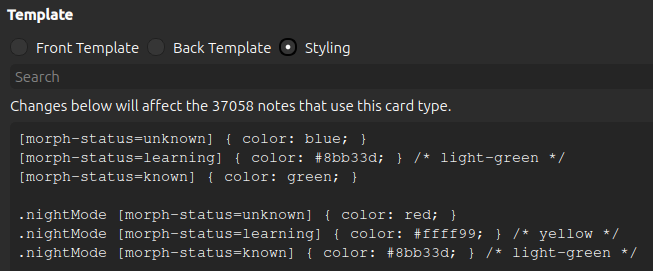
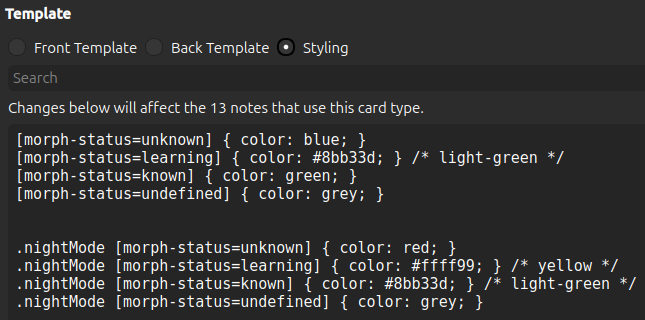
highlighting doc update

diff --git a/docs/src/user_guide/setup/highlighting.md b/docs/src/user_guide/setup/highlighting.md
@@ -73,10 +73,12 @@ dark-mode, then only adding the first line would be enough. You can also change 
 [morph-status=unknown] { color: blue; }
 [morph-status=learning] { color: #8bb33d; } /* light-green */
 [morph-status=known] { color: green; }
+[morph-status=undefined] { color: grey; }
 
 .nightMode [morph-status=unknown] { color: red; } 
 .nightMode [morph-status=learning] { color: #ffff99; } /* yellow */
 .nightMode [morph-status=known] { color: #8bb33d; } /* light-green */
+.nightMode [morph-status=undefined] { color: grey; }
 ```
 
 
@@ -84,41 +86,43 @@ dark-mode, then only adding the first line would be enough. You can also change 
 It’s also possible to use `background-color`:
 
 ``` css
-[morph-status=unknown] { background-color: #f7867e; } /* red */
-[morph-status=learning] { background-color: #ffff99; } /* yellow */
-[morph-status=known] { background-color: #49f53e; } /* green */
+[morph-status=unknown] { background-color: blue; }
+[morph-status=learning] { background-color: #8bb33d; } /* light-green */
+[morph-status=known] { background-color: green; }
+[morph-status=undefined] { background-color: grey; }
 
-.nightMode [morph-status=unknown] { background-color: #b74d4d; } /* red */
-.nightMode [morph-status=learning] { background-color: #ccad50; } /* yellow */
-.nightMode [morph-status=known] { background-color: #27961f; } /* green */
+.nightMode [morph-status=unknown] { background-color: red; } 
+.nightMode [morph-status=learning] { background-color: #ffff99; } /* yellow */
+.nightMode [morph-status=known] { background-color: #8bb33d; } /* light-green */
+.nightMode [morph-status=undefined] { background-color: grey; }
 ```
 
 
-### Furigana and other ruby characters
+### Ruby Character Filters 
 
-![ruby_characters_preserved.png](../../../img/ruby_characters_preserved.png)
 
 > **Note**: The `Ignore content in square brackets` [preprocess setting](../setup/settings/preprocess.md) option needs to
 > be activated for ruby character highlighting to function properly.
 
-To have [ruby characters](https://docs.ankiweb.net/templates/fields.html#ruby-characters) such as furigana displayed,
-you have to prepend the respective [character filter](https://docs.ankiweb.net/templates/fields.html#additional-ruby-character-filters)
-to the field on the card
-template, e.g:
-
-``` text
-{{furigana:am-highlighted}}
-```
-or
-
-``` text
-{{am-highlight:furigana:Japanese}}
-```
+Anki supports [ruby characters](https://docs.ankiweb.net/templates/fields.html#ruby-characters) (pronunciation annotations) such as furigana.
+You can choose how these are displayed by prepending the respective [character filter](https://docs.ankiweb.net/templates/fields.html#additional-ruby-character-filters)
+to the field on the card template. The native character filters work on the static highlighting, and for the dynamic highlighting
+we have corresponding custom filters.
 
 
-> **Note**: Because [Anki cannot process custom filters before built in filters](https://github.com/ankicommunity/anki-desktop/blob/main/rslib/src/template_filters.rs#L22-L24),
-> it is required to apply the character filter to the right of `am-highlight:`
+<br>
 
+|                             | Static             | Dynamic                           |
+|-----------------------------|--------------------|-----------------------------------|
+| **Kanji only**              | `kanji:` | `am-highlight-kanji:`                       |
+| **Kana only**               | `kana:` | `am-highlight-kana:`                         |
+| **Furigana**                | `furigana:` | `am-highlight-furigana:` |
+
+<br>
+
+Here is an example of what they all look like:
+
+![ruby-filters.png](../../img/ruby-filters.png)
 
 
 ### Duplicate Audio Problem
